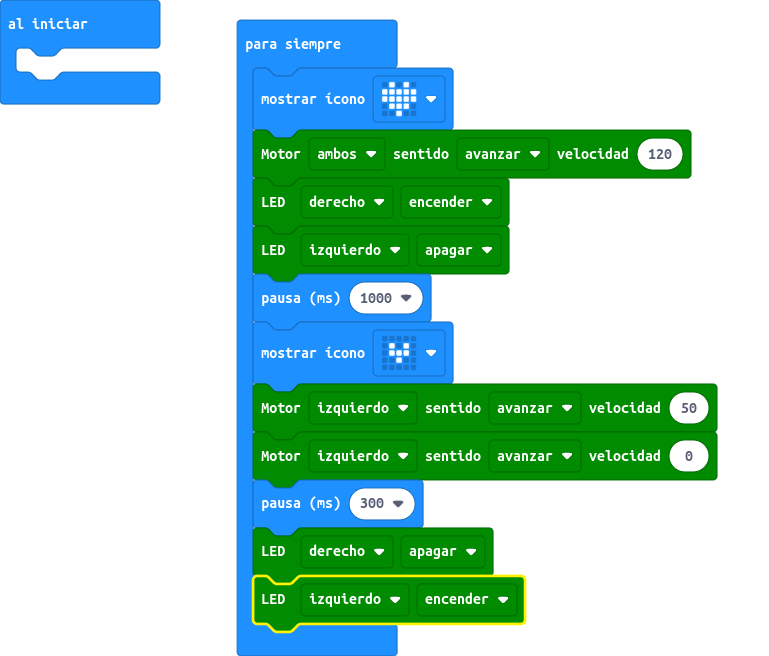
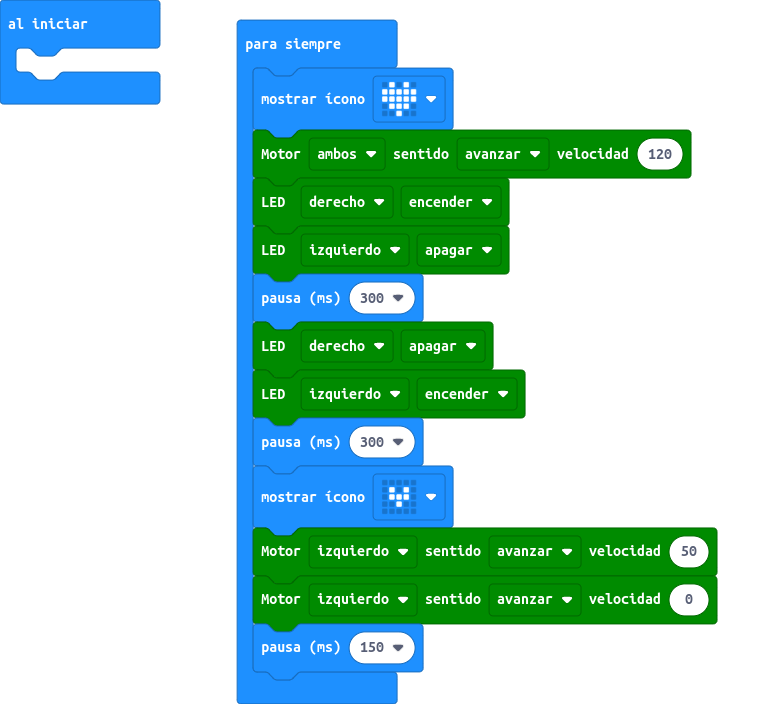
Añado leds

Changed region(s): [[0.3121, 0.2744, 0.9363, 0.9756], [0.3121, 0.0, 0.9051, 0.2744], [0.0, 0.0305, 0.2185, 0.1829]]

diff --git a/main.ts b/main.ts
@@ -3,11 +3,12 @@ basic.forever(function () {
     maqueen.motorRun(maqueen.Motors.All, maqueen.Dir.CW, 120)
     maqueen.writeLED(maqueen.LED.LEDLeft, maqueen.LEDswitch.turnOn)
     maqueen.writeLED(maqueen.LED.LEDRight, maqueen.LEDswitch.turnOff)
-    basic.pause(1000)
-    basic.showIcon(IconNames.SmallHeart)
-    maqueen.motorRun(maqueen.Motors.M1, maqueen.Dir.CW, 50)
-    maqueen.motorRun(maqueen.Motors.M1, maqueen.Dir.CW, 0)
     basic.pause(300)
     maqueen.writeLED(maqueen.LED.LEDLeft, maqueen.LEDswitch.turnOff)
     maqueen.writeLED(maqueen.LED.LEDRight, maqueen.LEDswitch.turnOn)
+    basic.pause(300)
+    basic.showIcon(IconNames.SmallHeart)
+    maqueen.motorRun(maqueen.Motors.M1, maqueen.Dir.CW, 50)
+    maqueen.motorRun(maqueen.Motors.M1, maqueen.Dir.CW, 0)
+    basic.pause(150)
 })
